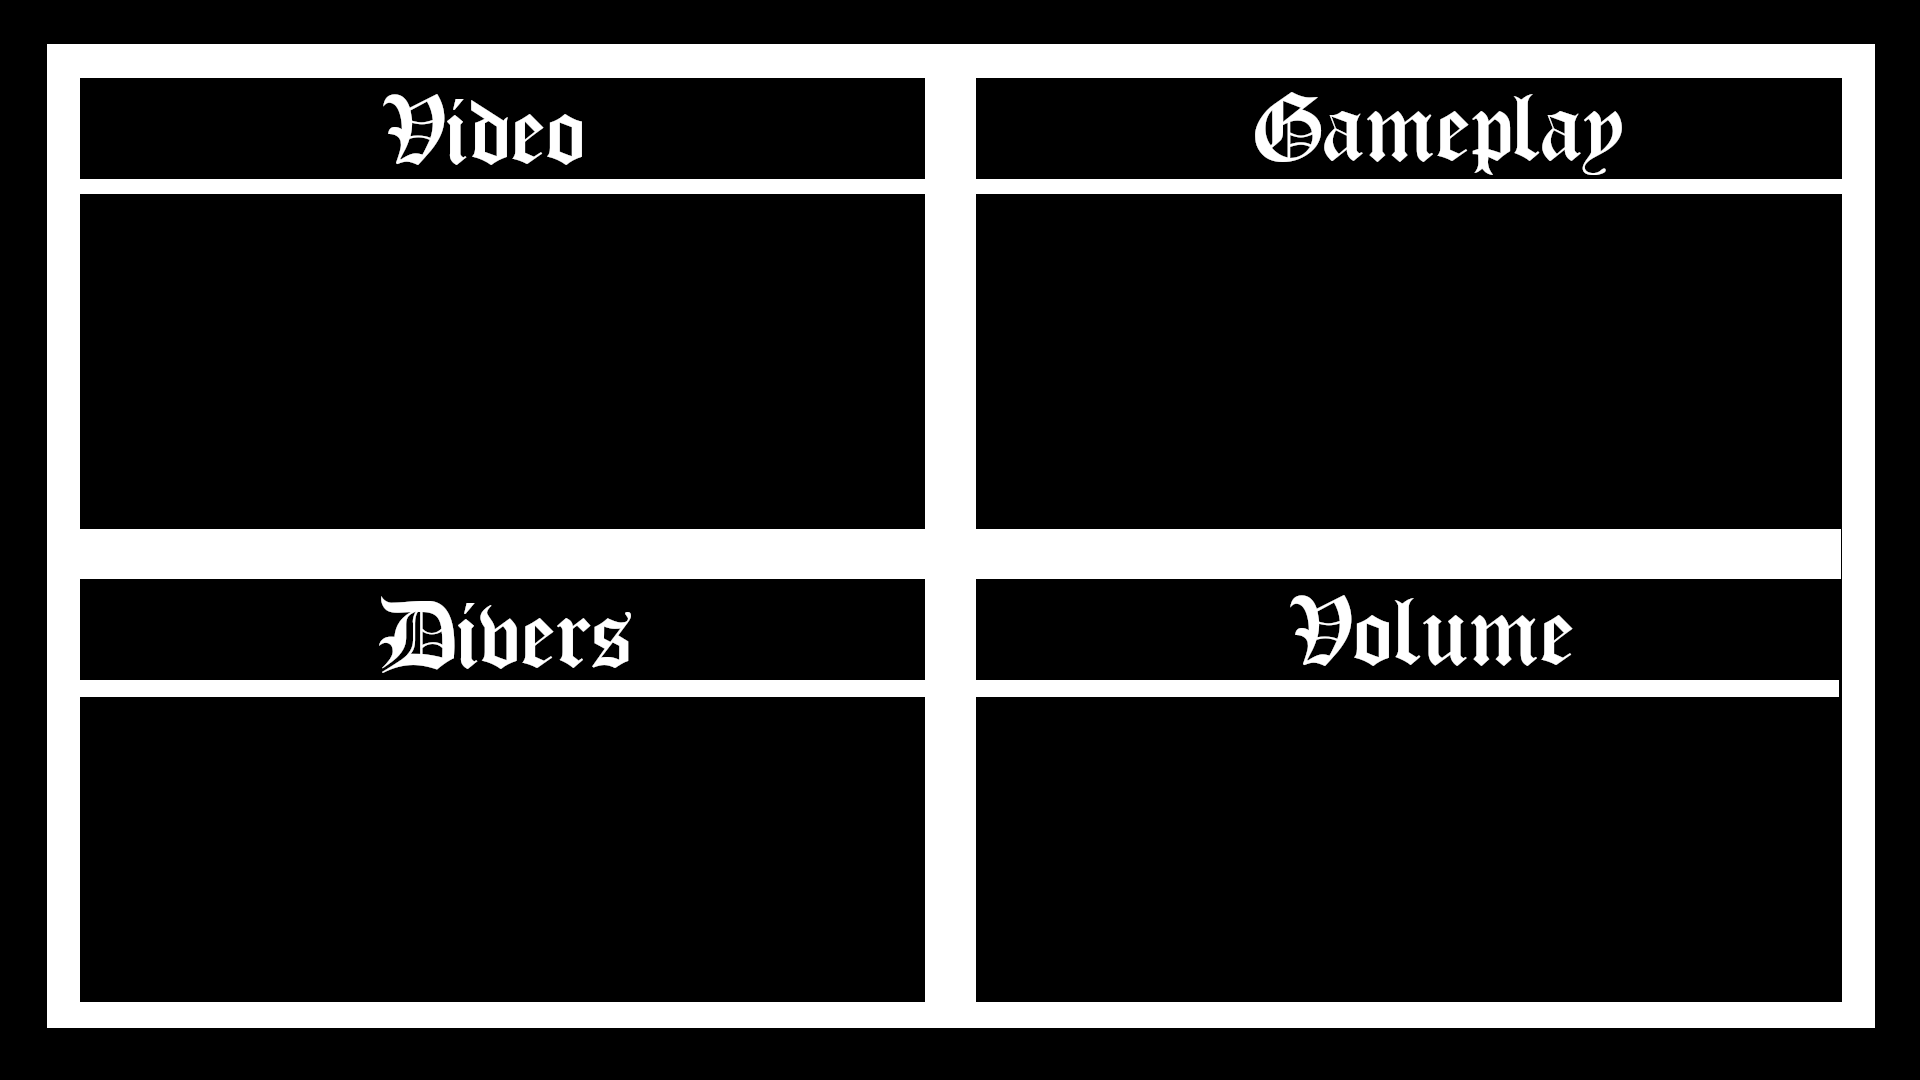
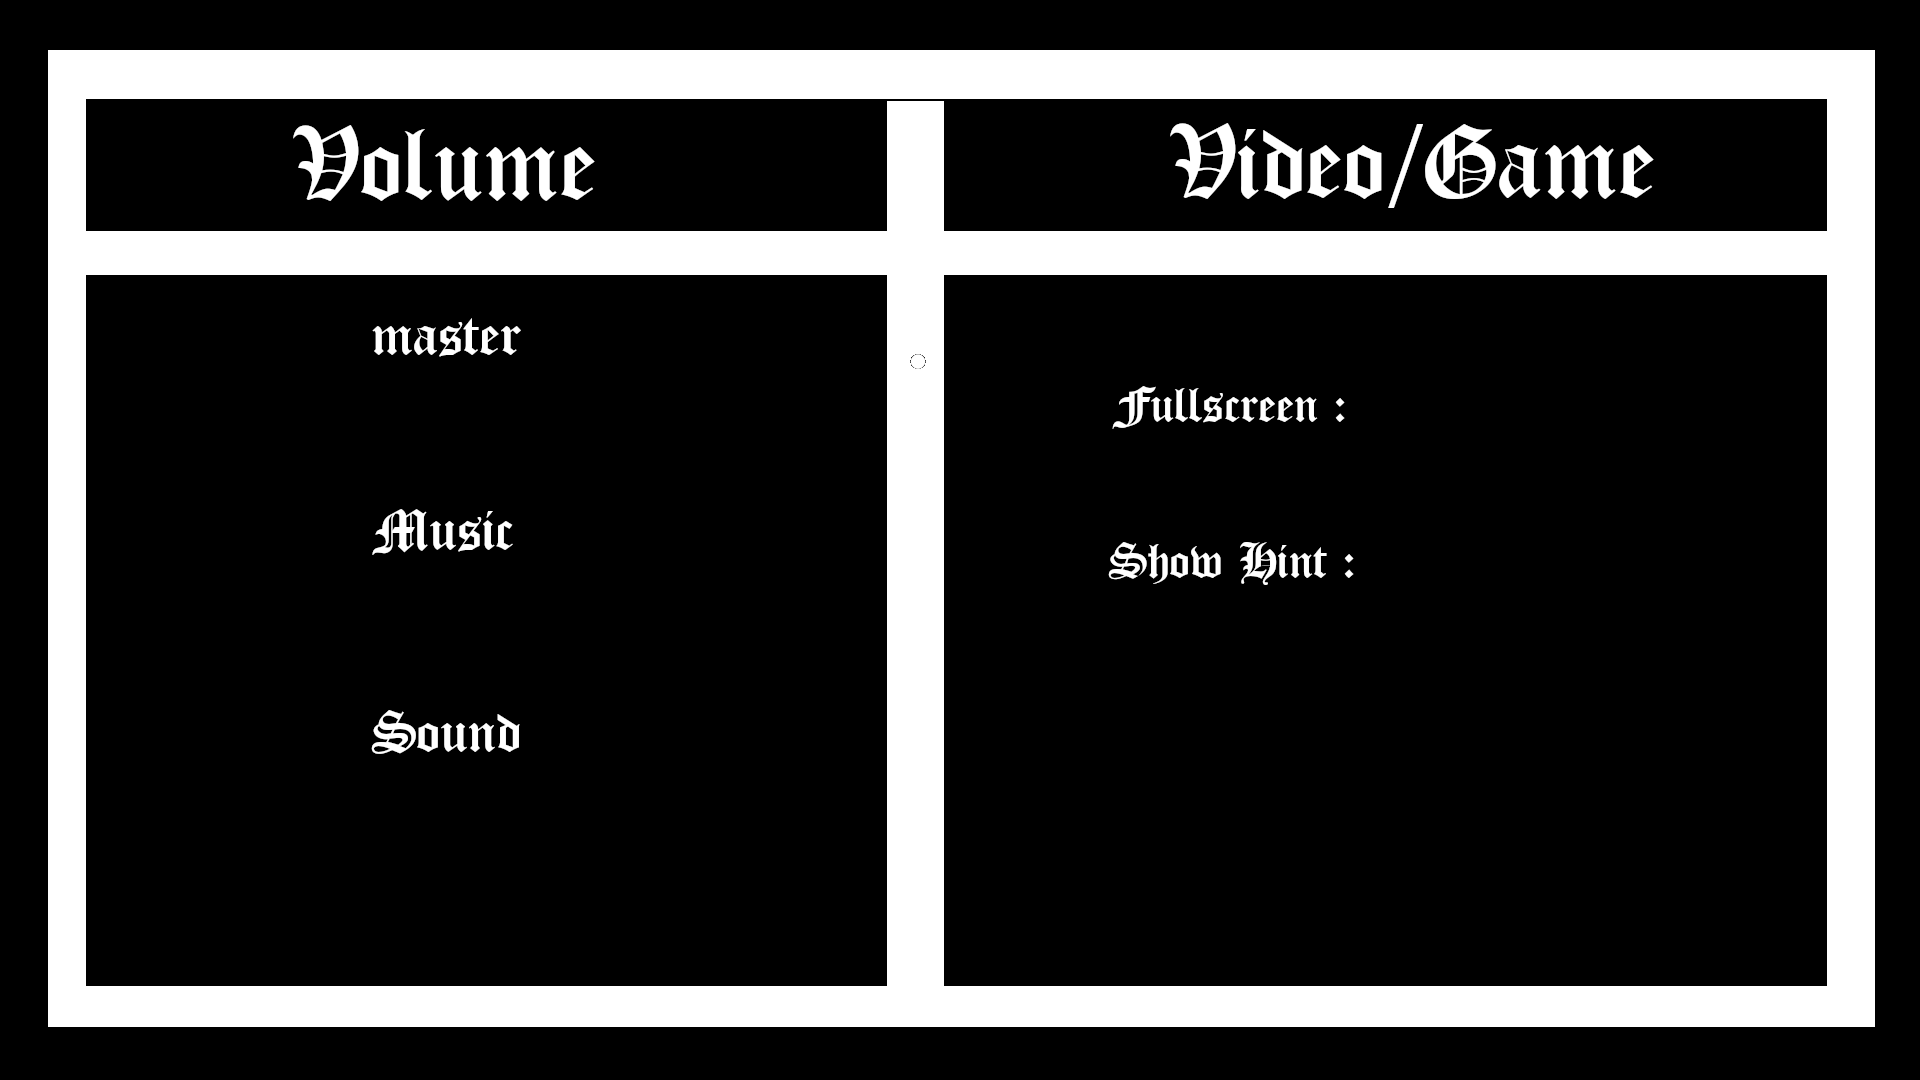
Add 3 slider for volume

Changed region(s): [[0.0312, 0.0306, 0.9688, 0.9472], [0.5625, 0.3361, 0.6875, 0.3972]]

diff --git a/src/iu/settings/settings_entities.c b/src/iu/settings/settings_entities.c
@@ -7,9 +7,49 @@
 
 #include "headers.h"
 
+static void set_slider(void)
+{
+    _iu.settings.entities[SETTINGS_VOL_MAST].slider =
+    malloc_safe(sizeof(entity2_t));
+    entity_constructor(_iu.settings.entities[SETTINGS_VOL_MAST].slider,
+    (entity2_param_t){
+    IUTEX_SLIDER, (rect_t){{-0.325417f, 0.185f}, {0.05f, 0.05f}}, -0.999});
+    _iu.settings.entities[SETTINGS_VOL_MAST].x_min = -0.797083f;
+    _iu.settings.entities[SETTINGS_VOL_MAST].x_max = -0.285417f;
+    _iu.settings.entities[SETTINGS_VOL_MUSIC].slider =
+    malloc_safe(sizeof(entity2_t));
+    entity_constructor(_iu.settings.entities[SETTINGS_VOL_MUSIC].slider,
+    (entity2_param_t){
+    IUTEX_SLIDER, (rect_t){{-0.325417f, -0.17f}, {0.05f, 0.05f}}, -0.999});
+    _iu.settings.entities[SETTINGS_VOL_MUSIC].x_min = -0.797083f;
+    _iu.settings.entities[SETTINGS_VOL_MUSIC].x_max = -0.325417f;
+    _iu.settings.entities[SETTINGS_VOL_SOUND].slider =
+    malloc_safe(sizeof(entity2_t));
+    entity_constructor(_iu.settings.entities[SETTINGS_VOL_SOUND].slider,
+    (entity2_param_t){
+    IUTEX_SLIDER, (rect_t){{-0.325417f, -0.505f}, {0.05f, 0.05f}}, -0.999});
+    _iu.settings.entities[SETTINGS_VOL_SOUND].x_min = -0.797083f;
+    _iu.settings.entities[SETTINGS_VOL_SOUND].x_max = -0.325417f;
+}
+
 void setting_set_entities(void)
 {
     entity_constructor(&_iu.settings.entities[SETTINGS_BG], (entity2_param_t){
     IUTEX_SETTINGS_BG, (rect_t){{-1.0f, -1.0f}, {2.0f, 2.0f}}, -0.997});
-    return;
+    entity_constructor(&_iu.settings.entities[SETTINGS_VOL_MAST],
+    (entity2_param_t){IUTEX_SETTINGS_VOLUME,
+    (rect_t){{-0.83f, 0.13f}, {0.6f, 0.2f}}, -0.998});
+    entity_constructor(&_iu.settings.entities[SETTINGS_VOL_MUSIC],
+    (entity2_param_t){IUTEX_SETTINGS_VOLUME,
+    (rect_t){{-0.83f, -0.23f}, {0.6f, 0.2f}}, -0.998});
+    entity_constructor(&_iu.settings.entities[SETTINGS_VOL_SOUND],
+    (entity2_param_t){IUTEX_SETTINGS_VOLUME,
+    (rect_t){{-0.83f, -0.56f}, {0.6f, 0.2f}}, -0.998});
+    set_slider();
+}
+
+void slider_free(void)
+{
+    for (int i = SETTINGS_VOL_MAST; i < SETTINGS_VOL_SOUND; i++)
+        free(_iu.settings.entities[i].slider);
 }

diff --git a/src/iu/settings/event.c b/src/iu/settings/event.c
@@ -7,11 +7,43 @@
 
 #include "headers.h"
 
+static void analyse_buttons(settings_entitie_t i)
+{
+    switch (i) {
+        case SETTINGS_VOL_MAST:
+            if (!_demo->mouse.button_release)
+                setting_slider_move(&_iu.settings.entities[i]);
+            break;
+        case SETTINGS_VOL_MUSIC:
+            if (!_demo->mouse.button_release)
+                setting_slider_move(&_iu.settings.entities[i]);
+            break;
+        case SETTINGS_VOL_SOUND:
+            if (!_demo->mouse.button_release)
+                setting_slider_move(&_iu.settings.entities[i]);
+            break;
+        default:
+            return;
+    }
+}
+
+
+static void check_buttons(void)
+{
+    for (int i = 0; i < SETTINGS_END; i++) {
+        if (check_click_pos(_demo->mouse.mouse_pos, _iu.settings.entities[i],
+        _demo->win.w, _demo->win.h))
+            analyse_buttons(SETTINGS_BG + i);
+    }
+}
+
 int setting_poll_event(void)
 {
     if (!demo_poll_events(_demo))
         return 0;
     if (_demo->input.key_press[KEY_ESC])
         return 0;
+    if (_demo->mouse.button_state)
+        check_buttons();
     return 1;
 }

diff --git a/src/iu/constructor.c b/src/iu/constructor.c
@@ -7,16 +7,17 @@
 
 #include "headers.h"
 
-void entity_set_new_rel(void)
+static void entity_set_new_rel(void)
 {
-    //add rell change here
     _iu.buttons[IUBUTTON_ELON].rel = IUREL_X;
 }
 
-void entity_set_new_pattern(void)
+static void entity_set_new_pattern(void)
 {
-    //add pattern change here
     _iu.buttons[IUBUTTON_ELON].pattern = PATTERN_CLICK_BUTTON;
+    _iu.settings.entities[SETTINGS_VOL_MAST].pattern = PATTERN_SLIDE_BUTTON;
+    _iu.settings.entities[SETTINGS_VOL_MUSIC].pattern = PATTERN_SLIDE_BUTTON;
+    _iu.settings.entities[SETTINGS_VOL_SOUND].pattern = PATTERN_SLIDE_BUTTON;
 }
 
 void entity_constructor(entity2_t *entity, entity2_param_t params)
@@ -26,4 +27,6 @@ void entity_constructor(entity2_t *entity, entity2_param_t params)
     entity->depth = params.depth;
     entity->pattern = PATTERN_CLASSIC;
     entity->rel = IUREL_FULL;
+    entity_set_new_rel();
+    entity_set_new_pattern();
 }

diff --git a/src/iu/settings/settings_loop.c b/src/iu/settings/settings_loop.c
@@ -7,12 +7,25 @@
 
 #include "headers.h"
 
+/*void display_x(demo_t *demo)//c'est pour le debug
+{
+    vec2 screen = {demo->win.w , demo->win.h};
+    vec2 mouse_posf = {demo->mouse.mouse_pos.x, demo->mouse.mouse_pos.y};
+    vec2 relative_mouse_pos;
+
+    relative_mouse_pos = vec2_muls(
+    vec2_subs(vec2_div(mouse_posf, screen), 0.5f), 2.0f);
+    relative_mouse_pos.y *= -1.0;
+    printf("x : %f || y : %f\n", relative_mouse_pos.x, relative_mouse_pos.y);
+}*/
+
 static void setting_draw(void)
 {
     for (int i = 0; i < SETTINGS_END; i++) {
         iu_entity_draw(_iu.settings.entities[i]);
+        if (_iu.settings.entities[i].pattern == PATTERN_SLIDE_BUTTON)
+            iu_entity_draw((*_iu.settings.entities[i].slider));
     }
-    //iu_entity_draw(_iu.settings.entities[SETTINGS_BG]);
 }
 
 void setting_loop(void)

diff --git a/src/iu/iu.c b/src/iu/iu.c
@@ -22,7 +22,7 @@ static const iutex_path_t iutex_path [] = {
     {IUTEX_MENU_CURSOR, "res/ui/menu/new/cursor.png"},
     {IUTEX_EDITOR_GRAB, "res/model/editor/grab.png"},
     {IUTEX_EDITOR_SELECT, "res/model/editor/select.png"},
-    {IUTEX_SLIDER, "res/ui/menu/new/settings/slider.png"},
+    {IUTEX_SLIDER, "res/ui/settings/slider.png"},
     {IUTEX_INVENT_BG, "res/ui/invent/invent_bg.png"},
     {IUTEX_TEXT_CADRE, "res/ui/dialogue_cadre.png"},
     {IUTEX_FONT_MINECRAFT, "res/ui/font/minecraft.png"},
@@ -39,6 +39,7 @@ static const iutex_path_t iutex_path [] = {
     {IUTEX_PAUSE_MENU, "res/ui/pause/pause_menu.png"},
     {IUTEX_PAUSE_QUIT, "res/ui/pause/pause_quit.png"},
     {IUTEX_SETTINGS_BG, "res/ui/settings/settings_bg.png"},
+    {IUTEX_SETTINGS_VOLUME, "res/ui/settings/volume.png"},
     {0, NULL}
 };
 

diff --git a/src/menu/slider.c b/src/menu/slider.c
@@ -28,14 +28,14 @@ static int check_slider_side(entity2_t slider)
     return 0;
 }
 
-float menu_slider_move(demo_t *demo, entity2_t *slider)
+float setting_slider_move(entity2_t *slider)
 {
     float save_x;
     float segment_len;
     float segment_len2;
 
     save_x = slider->slider->rect.p.x;
-    move_slider(demo, slider->slider);
+    move_slider(_demo, slider->slider);
     if (check_slider_side((*slider)))
         slider->slider->rect.p.x = save_x;
     segment_len = (slider->x_max - slider->x_min);

diff --git a/include/iu_setting_struct.h b/include/iu_setting_struct.h
@@ -9,9 +9,12 @@
 
 typedef enum {
     SETTINGS_BG,
+    SETTINGS_VOL_MAST,
+    SETTINGS_VOL_MUSIC,
+    SETTINGS_VOL_SOUND,
     SETTINGS_END
 } settings_entitie_t;
 
 typedef struct {
-    entity2_t entities[SETTINGS_BG];
+    entity2_t entities[SETTINGS_END];
 } settings_t;

diff --git a/include/iu_settings.h b/include/iu_settings.h
@@ -13,3 +13,9 @@ void setting_set_entities(void);
 void setting_loop(void);
 
 int setting_poll_event(void);
+
+void display_x(demo_t *demo);
+
+void slider_free(void);
+
+float setting_slider_move(entity2_t *slider);

diff --git a/src/demo/demo_init.c b/src/demo/demo_init.c
@@ -95,5 +95,6 @@ void demo_quit(demo_t *demo)
     sfRenderWindow_destroy(demo->win.window);
     sfClock_destroy(demo->win.frametime);
     clocks_quit(demo);
+    slider_free();
     free(demo);
 }

diff --git a/include/iu_texture_struct.h b/include/iu_texture_struct.h
@@ -167,6 +167,7 @@ typedef enum {
     IUTEX_PAUSE_MENU,
     IUTEX_PAUSE_QUIT,
     IUTEX_SETTINGS_BG,
+    IUTEX_SETTINGS_VOLUME,
     IUTEX_END
 } iutex_t;
 
